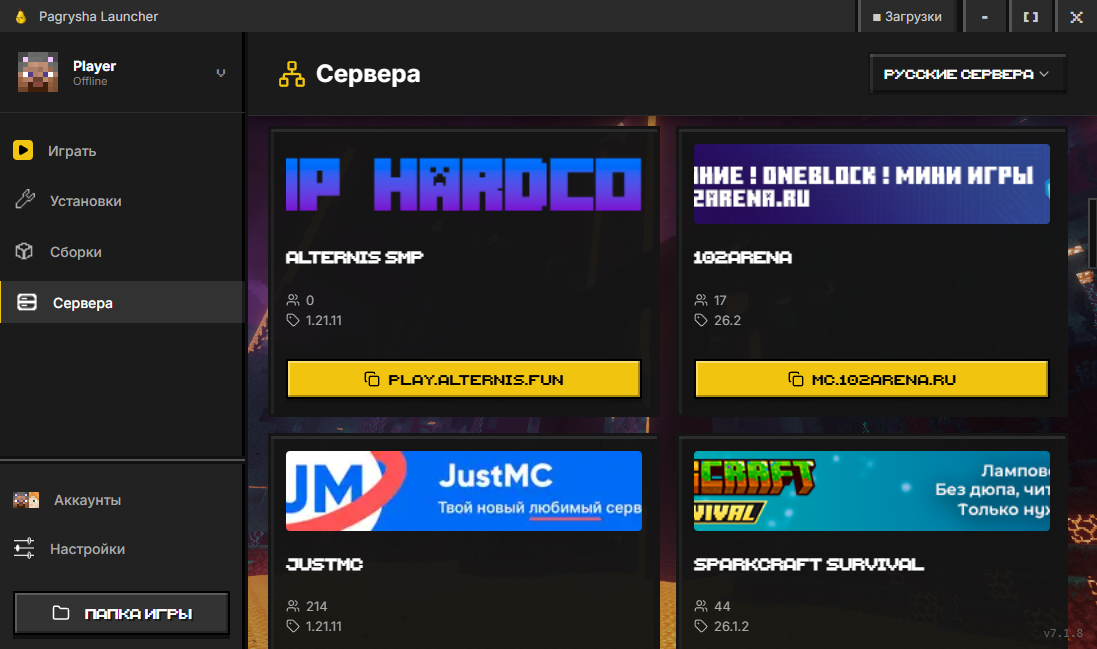
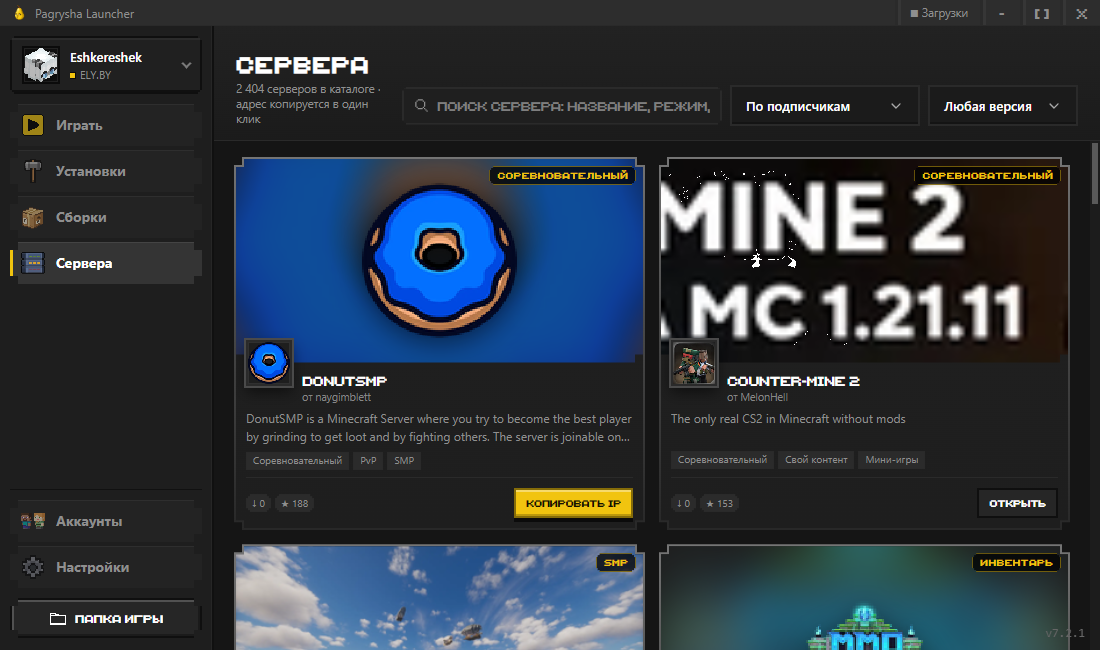
Replace site screenshots with new launcher 7.2 UI; fix active gallery tab contrast

diff --git a/src/launcher-theme.css b/src/launcher-theme.css
@@ -349,6 +349,16 @@ h1, h2, h3 {
   color: var(--pg-yellow);
 }
 
+/* Активная вкладка: тёмная заливка и жёлтый акцент. Базовые цвета текста
+   рассчитаны на жёлтый фон, на тёмном они не читаются. */
+.gallery-tab.active .tab-text {
+  color: #c9c9c9;
+}
+
+.gallery-tab.active .tab-text strong {
+  color: var(--pg-yellow);
+}
+
 /* --- Подвал -------------------------------------------------------------- */
 
 .footer {
